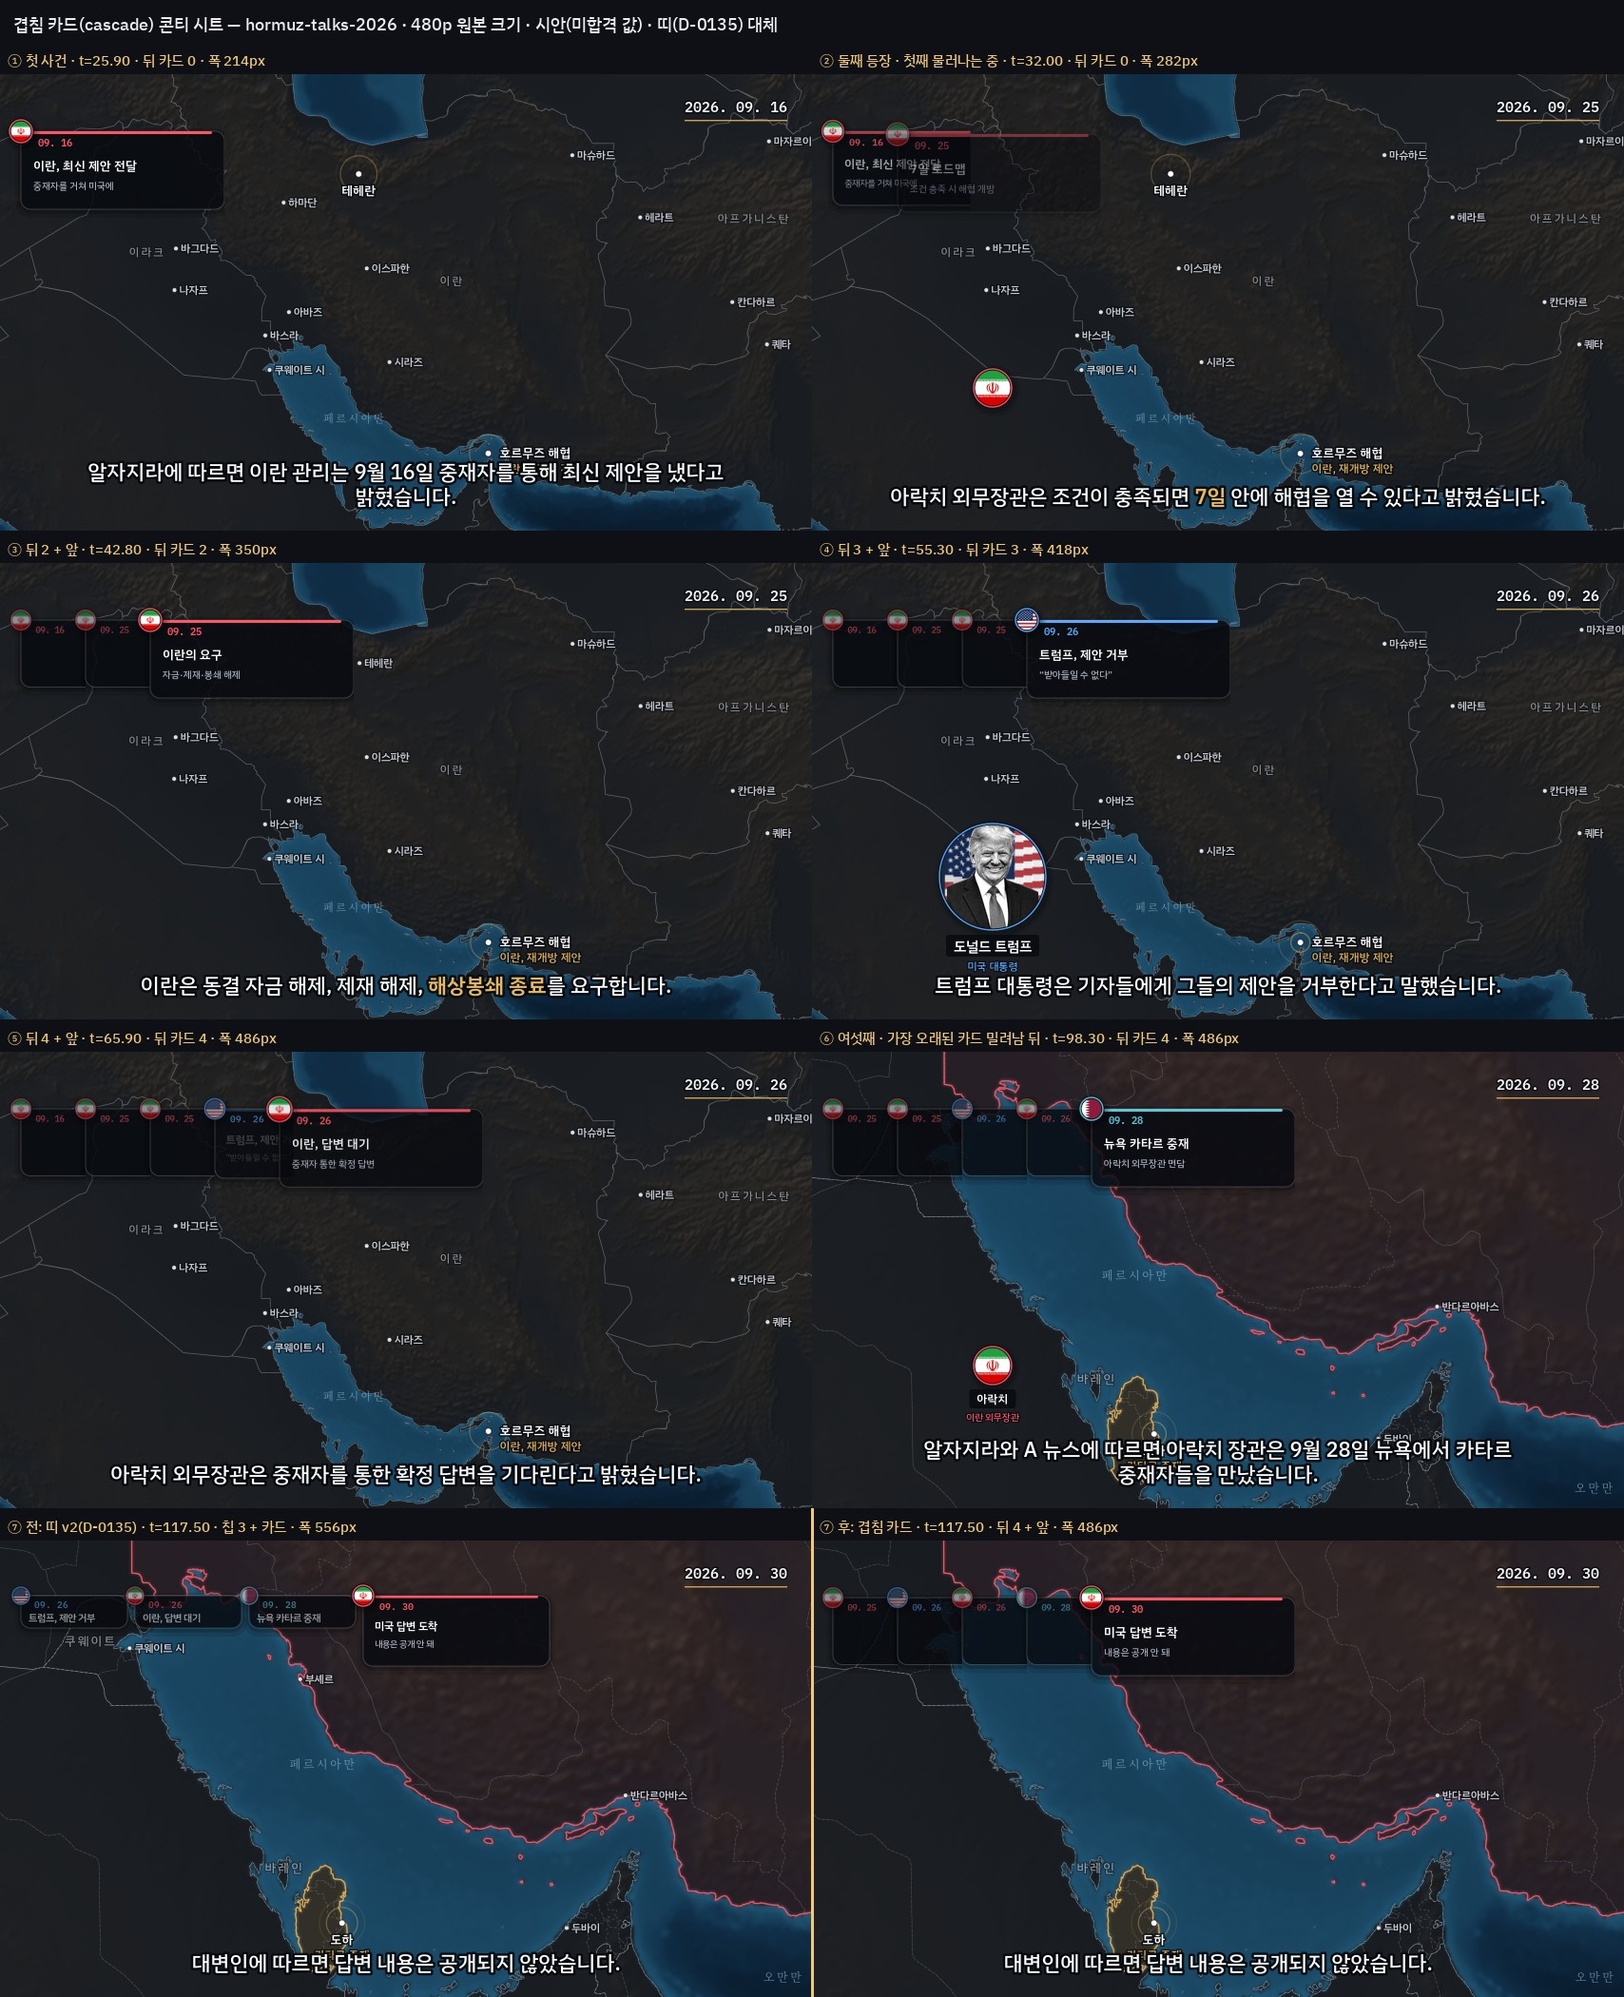
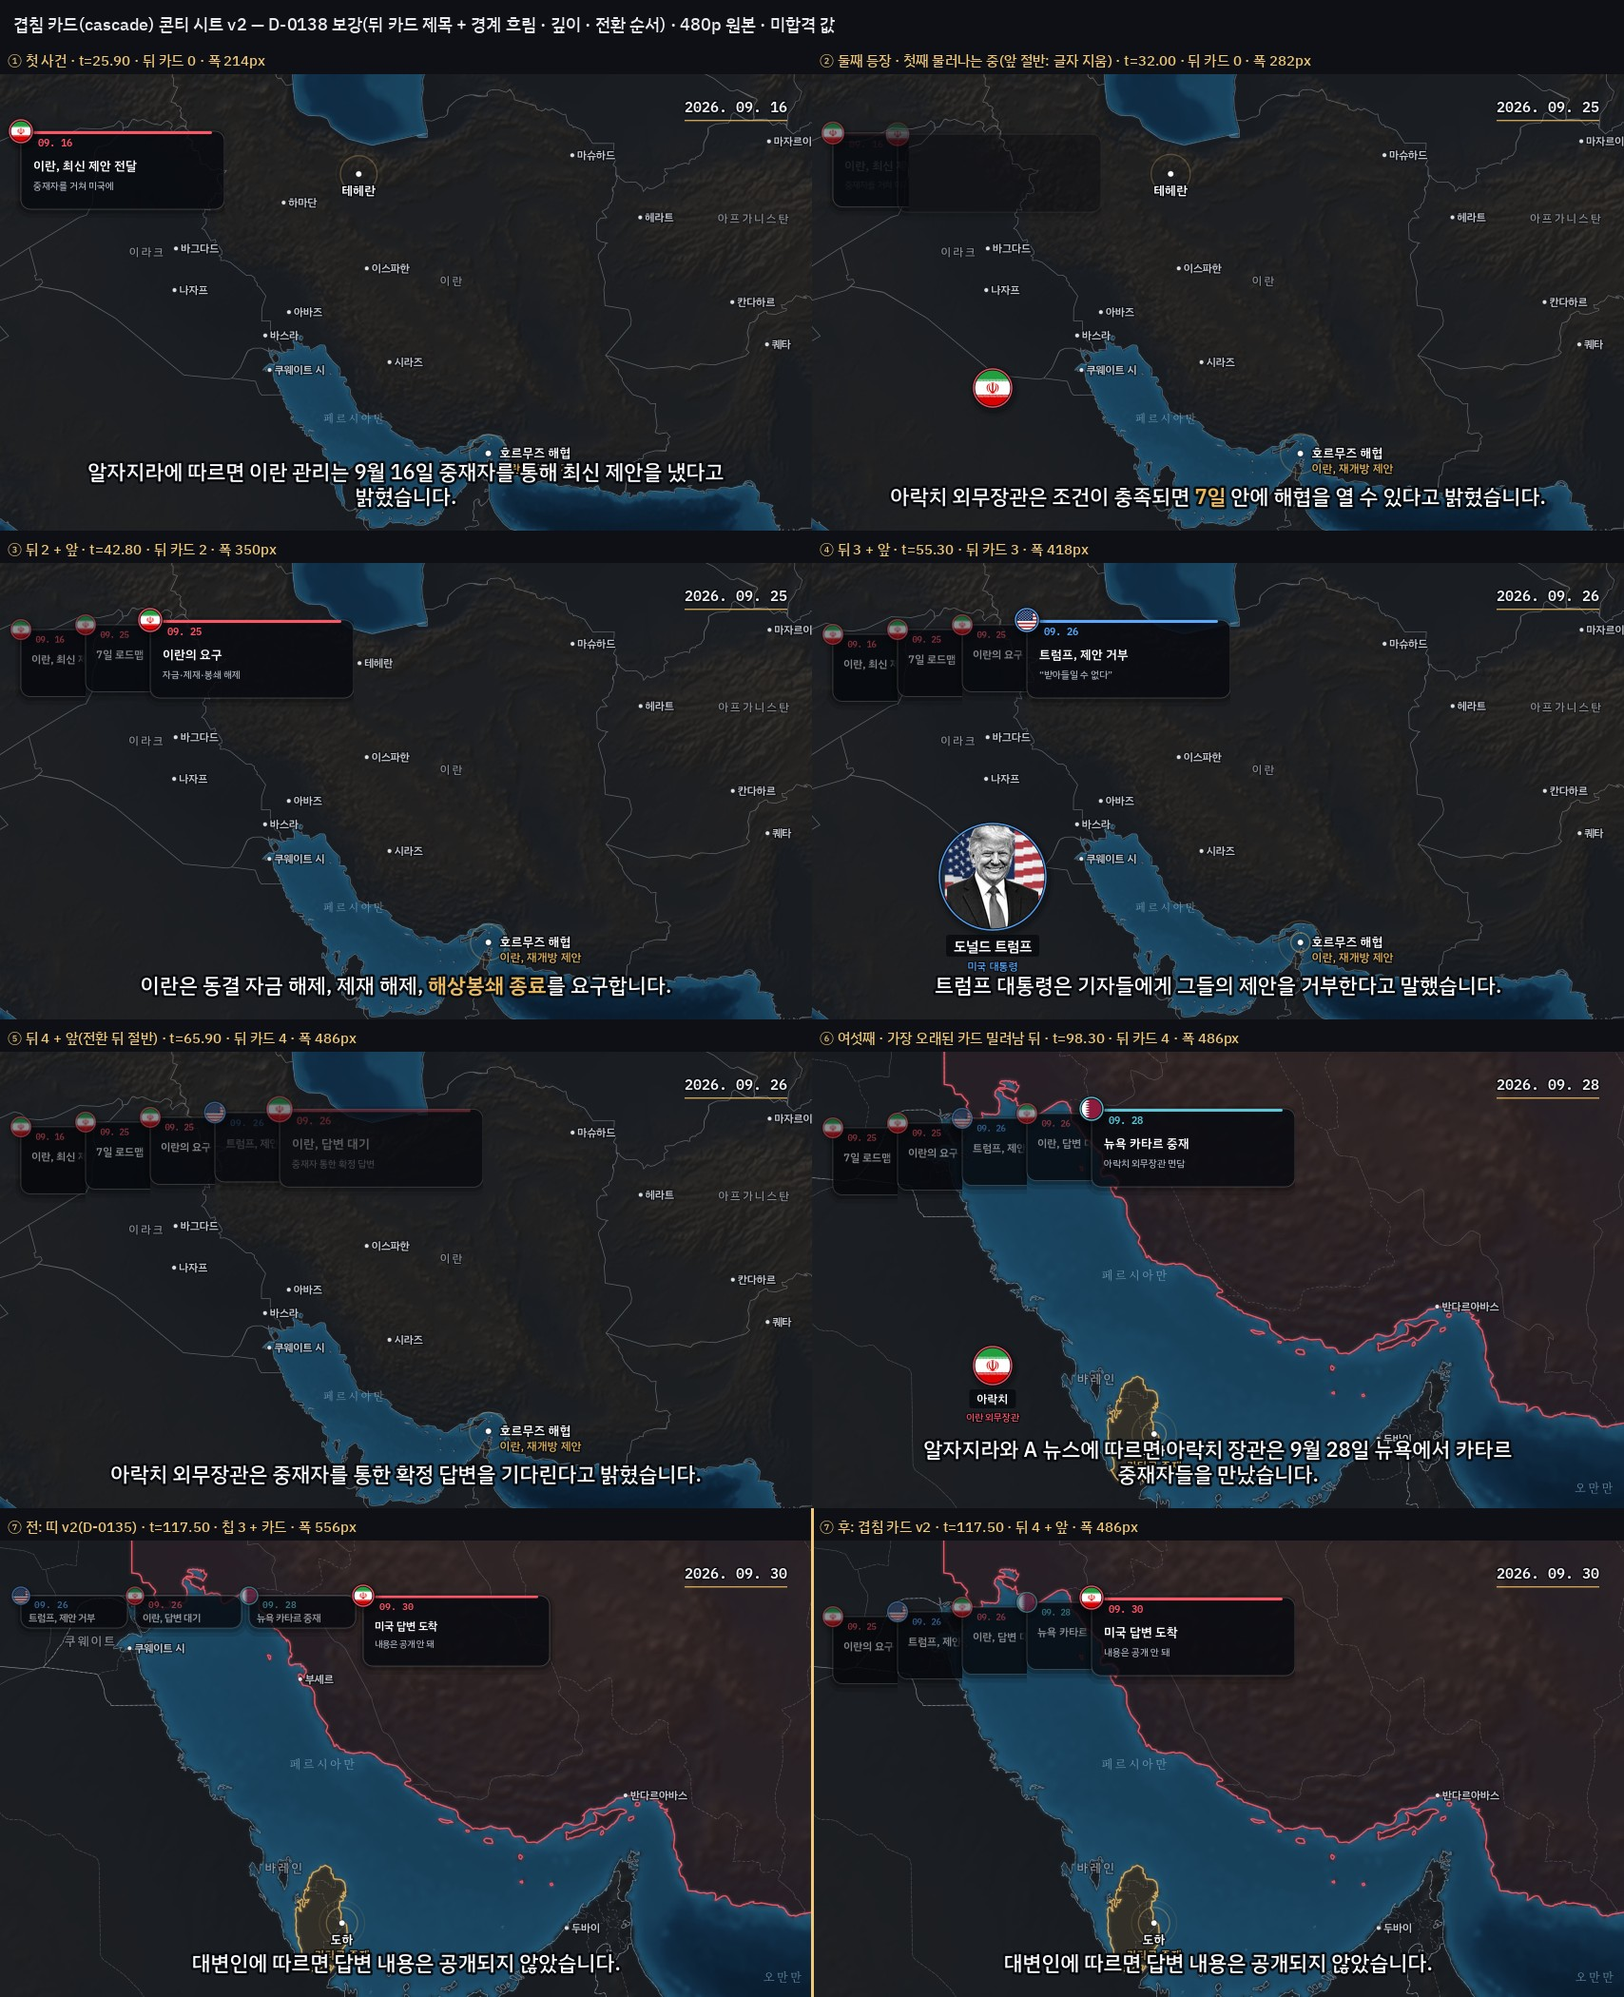
v5.2.0: D-0138 겹침 카드 보강 — 뒤 카드 제목+경계 흐림·깊이(내려앉음·어두움)·전환 글자 순서, 시트·720p 근접 컷, R-0162
Claude-Session: https://claude.ai/code/session_018WsqmoF9BQiVBrCJd6NHj2

diff --git a/engine/cascade.py b/engine/cascade.py
@@ -7,7 +7,9 @@
 - 지금 말하는 사건 = 맨 앞·rules cascade.front 크기·accent 윗선·부제까지.
 - 다음 사건이 오면(items[k+1].at) 앞 카드는 focus_sec 동안 back_scale 로 물러나고(크기·글자 알파 smooth), 새 카드가 step 오른쪽에서
   위에 겹쳐 아래에서 올라온다. 뒤 카드는 다음 카드에 덮인 부분을 그리지 않는다(반투명 바탕끼리 비치지 않게 — 오른쪽 경계를 다음 카드 등장에 맞춰 당긴다).
-  그래서 뒤 카드는 왼쪽 step 폭(국기 원·날짜)만 보인다. 제목·부제·윗선은 물러나며 사라진다(잘린 글자가 비치지 않게).
+  그래서 뒤 카드는 왼쪽 step 폭만 보인다 — 국기 원·날짜·제목 앞부분(덮이는 경계 back_fade_px 는 알파 그라데이션으로 가림, D-0138).
+  부제·윗선은 물러나며 사라진다. 앞에 쌓인 카드 수만큼 back_dy 내려앉고 back_dim 어두워진다(깊이).
+  전환 순서: 물러나는 카드 글자는 focus_sec 앞 절반에 지우고(경계도 앞 절반에 당김), 새 카드 글자는 뒤 절반에 나타난다 — 두 글자가 같은 자리에서 비치는 순간 0.
 - 뒤 카드가 max_back 을 넘으면 가장 오래된 카드가 shift_sec 동안 왼쪽으로 밀려 흐려져 나간다.
 - 상자 = 아일랜드 공통 상자(engine.island.draw_frame). 국기 원 = 카드 좌상단 모서리(badge_at 재사용, 이름표 없음).
 - 패널 덮개 아래에 그린다(engine/render.py). 지명 라벨·뱃지는 보이는 카드 상자를 피한다(R.reserved·engine.reserved.card_zones).
@@ -21,7 +23,7 @@ from dataclasses import dataclass
 import cairo
 
 from engine.context import RenderCtx
-from engine.style import C, CARD, CASCADE, H_OUT
+from engine.style import C, CARD, CASCADE, H_OUT, ISLAND
 from engine.timebase import ease_out, smooth, window
 from engine.typography import rrect, text, tw
 
@@ -37,13 +39,16 @@ class CascadeError(ValueError):
 class Card:
     i: int            # item 번호
     x: float          # 카드 왼쪽(= 국기 원 중심 x)
-    y: float
+    y: float          # 카드 위(등장 슬라이드 + 깊이 내려앉음 포함)
     scale: float      # 1 = 앞, back_scale = 뒤
     back: float       # 0 = 앞, 1 = 완전히 물러남
+    depth: float      # 앞에 쌓인 카드 수(smooth) — 내려앉음 back_dy·어두움 back_dim 의 배수
     a: float          # 등장·밀려남 알파
     clip_x1: float    # 이 x 오른쪽은 다음 카드가 덮는다(그리지 않음)
     appear: float
     leaving: bool
+    title_a: float    # 제목·날짜 글자 알파 배율(전환 순서: 물러나는 카드 = 앞 절반 지움 → 뒤 절반 뒤 카드 글자, 새 카드 = 뒤 절반)
+    detail_a: float   # 부제·윗선 알파 배율(앞 카드에만)
 
     @property
     def w(self) -> float:
@@ -79,6 +84,11 @@ def cascade_alpha(t: float, e: dict) -> float:
     return window(t, e["t0"], e["t1"], CARD.fade_sec, CARD.fade_sec)
 
 
+def _half(p: float, second: bool) -> float:
+    """전환 진행 p(0~1)의 앞 절반(사라짐) 또는 뒤 절반(나타남) 알파."""
+    return smooth(p * 2 - 1) if second else 1 - smooth(p * 2)
+
+
 def layout(t: float, e: dict) -> list[Card]:
     """보이는 카드(뒤 → 앞 순서). 그리기·예약 영역·검사가 같이 쓴다."""
     items = e["items"]
@@ -86,21 +96,29 @@ def layout(t: float, e: dict) -> list[Card]:
     if n == 0:
         return []
     off = sum(smooth((t - items[m]["at"]) / CASCADE.shift_sec) for m in range(CASCADE.max_back + 1, n))
-    xs, ys, alphas = [], [], []
-    for k in range(n):
-        ap = items[k]["at"]
-        xs.append(CASCADE.x0 + (k - off) * CASCADE.step)
-        ys.append(CASCADE.y + (1 - ease_out((t - ap) / CASCADE.focus_sec)) * CARD.slide_px / 2)   # 아래에서 올라온다(폭을 늘리지 않게)
-        gone = smooth(off - k) if off > k else 0.0
-        alphas.append(smooth((t - ap) / CARD.fade_sec) * (1 - gone))
+    prog = [min(1.0, max(0.0, (t - items[k]["at"]) / CASCADE.focus_sec)) for k in range(n)]   # k 번째 사건이 앞에 서는 전환 진행
     out: list[Card] = []
     for k in range(n):
-        back = smooth((t - items[k + 1]["at"]) / CASCADE.focus_sec) if k + 1 < n else 0.0
+        ap = items[k]["at"]
+        x = CASCADE.x0 + (k - off) * CASCADE.step
+        depth = sum(smooth(prog[m]) for m in range(k + 1, n))
+        y = CASCADE.y + (1 - ease_out(prog[k])) * CARD.slide_px / 2 + CASCADE.back_dy * depth   # 아래에서 올라오고, 뒤로 갈수록 내려앉는다
+        gone = smooth(off - k) if off > k else 0.0
+        a = smooth((t - ap) / CARD.fade_sec) * (1 - gone)
+        back = smooth(prog[k + 1]) if k + 1 < n else 0.0
         scale = 1 + (CASCADE.back_scale - 1) * back
-        right = xs[k] + F.w * scale
-        clip = right if k + 1 >= n else right + (xs[k + 1] - right) * alphas[k + 1]   # 다음 카드가 나타나는 만큼 경계를 당긴다
-        if alphas[k] > 0.01:
-            out.append(Card(k, xs[k], ys[k], scale, back, alphas[k], clip, items[k]["at"], off > k))
+        right = x + F.w * scale
+        nx = CASCADE.x0 + (k + 1 - off) * CASCADE.step
+        clip = right if k + 1 >= n else right + (nx - right) * smooth(prog[k + 1] * 2)   # 다음 카드 전환 앞 절반에 경계를 다음 카드 왼쪽 끝까지 당긴다
+        if k + 1 < n and prog[k + 1] < 1:      # 물러나는 중: 앞 절반 지움 → 뒤 절반 뒤 카드 글자
+            title_a = _half(prog[k + 1], False) if prog[k + 1] < 1 / 2 else CASCADE.back_text_alpha * _half(prog[k + 1], True)
+        elif k + 1 < n:
+            title_a = CASCADE.back_text_alpha
+        else:                                   # 맨 앞(새 카드): 뒤 절반에 나타남. 첫 사건은 앞 카드가 없으니 바로
+            title_a = _half(prog[k], True) if k > 0 else 1.0
+        detail_a = (1 - smooth(prog[k + 1] * 2)) if k + 1 < n else title_a
+        if a > 0.01:
+            out.append(Card(k, x, y, scale, back, depth, a, clip, ap, off > k, title_a, detail_a))
     return out
 
 
@@ -133,23 +151,37 @@ def draw_cascade(ctx: cairo.Context, R: RenderCtx, t: float, e: dict) -> None:  
         it = e["items"][c.i]
         a = ea * c.a
         acc = C[it.get("accent") or "gold"]
-        ta = a * (1 + (CASCADE.back_text_alpha - 1) * c.back)   # 글자·국기: 물러나면 흐리게
-        fa = a * (1 - c.back)                                    # 윗선·제목·부제: 앞 카드에만(뒤 카드는 국기·날짜만 — 덮여 잘린 글자가 비치지 않게)
+        ta, fa = a * c.title_a, a * c.detail_a
         ctx.save()
         ctx.rectangle(0, 0, c.clip_x1, H_OUT)
         ctx.clip()
         draw_frame(ctx, (c.x, c.y, c.w, c.h), a)
+        if c.depth > 0.01:                       # 뒤로 갈수록 어둡게(창이 물러난 깊이)
+            rrect(ctx, c.x, c.y, c.w, c.h, ISLAND.radius * c.scale)
+            ctx.set_source_rgba(0, 0, 0, min(1.0, CASCADE.back_dim * c.depth) * a)
+            ctx.fill()
+        ctx.push_group()                         # 글자 — 덮이는 경계 back_fade_px 를 알파 그라데이션으로 가린다(자름 아님)
         ctx.translate(c.x, c.y)
         ctx.scale(c.scale, c.scale)
         if fa > 0.01:
             rrect(ctx, F.pad_x, 0, F.w - F.pad_x * 2, F.accent_w, F.accent_w / 2)
             ctx.set_source_rgba(*acc, fa)
             ctx.fill()
-        text(ctx, it["date"], CASCADE.flag_R + F.date_dx, F.date_dy, F.date_size, "mono", acc, ta, 0, "l")
-        if fa > 0.01:
-            text(ctx, it["title"], F.pad_x, F.title_dy, F.title_size, "sansb", (1, 1, 1), fa, 0, "l")
-        if it.get("line") and fa > 0.01:
-            text(ctx, it["line"], F.pad_x, F.line_dy, F.line_size, "sansm", C["muted"], fa, 0, "l")
+            if it.get("line"):
+                text(ctx, it["line"], F.pad_x, F.line_dy, F.line_size, "sansm", C["muted"], fa, 0, "l")
+        if ta > 0.01:
+            text(ctx, it["date"], CASCADE.flag_R + F.date_dx, F.date_dy, F.date_size, "mono", acc, ta, 0, "l")
+            text(ctx, it["title"], F.pad_x, F.title_dy, F.title_size, "sansb", (1, 1, 1), ta, 0, "l")
+        glyphs = ctx.pop_group()
+        if c.clip_x1 < c.x + c.w:
+            fade = cairo.LinearGradient(c.clip_x1 - CASCADE.back_fade_px, 0, c.clip_x1, 0)
+            fade.add_color_stop_rgba(0, 0, 0, 0, 1)
+            fade.add_color_stop_rgba(1, 0, 0, 0, 0)
+            ctx.set_source(glyphs)
+            ctx.mask(fade)
+        else:
+            ctx.set_source(glyphs)
+            ctx.paint()
         ctx.restore()
         badge_at(ctx, R, c.x, c.y, dict(kind="flag", flag=it["flag"], R=c.flag_r, t0=c.appear, label="",
-                                        accent=it.get("accent") or "gold"), t, ta)
+                                        accent=it.get("accent") or "gold"), t, a * max(c.title_a, CASCADE.back_text_alpha))

diff --git a/tests/test_cascade.py b/tests/test_cascade.py
@@ -65,6 +65,33 @@ class CascadeGeometryTest(unittest.TestCase):
         boxes = cascade_boxes(t, e)
         self.assertAlmostEqual(boxes[0][2] - cards[0].x, CASCADE.step)
 
+    def test_no_text_overlap_during_transition(self) -> None:
+        """D-0138 ③ — 전환 중 물러나는 카드 글자와 새 카드 글자가 같은 자리에서 비치는 순간 0:
+        새 카드 글자가 보이면 물러나는 카드는 새 카드 왼쪽 끝까지만 그린다, 앞 절반에는 새 카드 글자가 없다."""
+        e = _event()
+        for k in range(1, len(e["items"])):
+            t0 = e["items"][k]["at"]
+            t = t0
+            while t <= t0 + CASCADE.focus_sec + STEP:
+                cards = {c.i: c for c in layout(t, e)}
+                new, old = cards.get(k), cards.get(k - 1)
+                if new and old and new.title_a > 0.01:
+                    self.assertLessEqual(old.clip_x1, new.x + 1e-6, (k, t))
+                if t < t0 + CASCADE.focus_sec / 2 - 1e-6 and new:
+                    self.assertLessEqual(new.title_a, 1e-9, (k, t))
+                t += STEP / 5
+
+    def test_depth_monotonic(self) -> None:
+        """D-0138 ② — 뒤로 갈수록(오래된 카드일수록) 깊이·내려앉음이 단조 증가, 맨 앞은 깊이 0."""
+        e = _event(5)
+        cards = layout(e["items"][-1]["at"] + 3.0, e)
+        depths = [c.depth for c in cards]
+        ys = [c.y for c in cards]
+        self.assertTrue(all(a > b for a, b in zip(depths, depths[1:])))
+        self.assertTrue(all(a > b for a, b in zip(ys, ys[1:])))
+        self.assertAlmostEqual(depths[-1], 0.0)
+        self.assertAlmostEqual(ys[0] - ys[-1], CASCADE.back_dy * depths[0])
+
     def test_rules_validator(self) -> None:
         from schemas.rules_models import CascadeRules  # noqa: PLC0415
 

diff --git a/schemas/rules_models.py b/schemas/rules_models.py
@@ -1424,6 +1424,9 @@ class CascadeRules(_Strict):
     front: CascadeFrontRules
     back_scale: float = Field(gt=0, lt=1)
     back_text_alpha: float = Field(gt=0, le=1)
+    back_fade_px: float = Field(ge=0)      # D-0138 — 덮이는 경계 글자 알파 그라데이션 폭
+    back_dy: float = Field(ge=0)           # D-0138 — 층마다 내려앉음
+    back_dim: float = Field(ge=0, lt=1)    # D-0138 — 층마다 어두워짐
     max_back: int = Field(ge=1)
     focus_sec: float = Field(gt=0)
     shift_sec: float = Field(gt=0)

diff --git a/back_and_forth/261001_143236_R0162_opus_cascade-d0138-reinforce.md b/back_and_forth/261001_143236_R0162_opus_cascade-d0138-reinforce.md
@@ -1,0 +1,36 @@
+---
+id: R-0162
+from: opus
+to: fable
+kind: progress
+responds_to: [D-0138]
+phase: "G14-pre (겹침 카드 콘티)"
+version: v5.2.0
+status: done
+---
+
+# D-0138 보강 3건 반영 — 시트 재생성 · 720p 근접 컷(사용자 지시로 1080p 환산 대신)
+
+렌더(480p·720p 전편) 없음. 프리뷰 컷만.
+
+## 산출물
+- 시트: `projects/hormuz-talks-2026/prev/cascade_sheet.jpg`(덮어쓰기, 480p 원본 셀 7컷, ⑦ 전 띠 v2 / 후 겹침 카드 v2).
+- 근접 컷: **`projects/hormuz-talks-2026/prev/cascade_strip_720.png`** — ⑤ t=65.90, 720p 프리뷰 프레임에서 x 0~520·y 40~160(설계 px) × 1.5 = 780×180.
+  사용자 지시(2026-10-01 "720p 근접 컷")가 D-0138 의 1080p 환산(×2.25)을 대신한다. 완성본 해상도 = 720p(order.yaml decisions.resolution).
+
+## 보강
+| # | 내용 | 규칙 키(미합격 값) |
+|---|---|---|
+| 1 | 뒤 카드도 날짜·제목을 남긴다(back_text_alpha 0.5). 덮이는 경계는 글자를 `push_group` 후 선형 그라데이션 마스크로 가린다 — 상자·국기는 그대로. 부제·윗선은 물러나며 사라짐 | `back_fade_px: 12` |
+| 2 | 깊이: 앞에 쌓인 카드 수(smooth) × `back_dy` 내려앉고, 바탕 위에 검정 × `back_dim` × depth | `back_dy: 5`, `back_dim: 0.06` |
+| 3 | 전환 순서: 물러나는 카드 제목·부제 = focus_sec 앞 절반에 지움(덮임 경계도 앞 절반에 다음 카드 왼쪽 끝까지 당김) → 뒤 절반에 뒤 카드 글자. 새 카드 글자 = 뒤 절반 | — |
+
+## 검사·테스트
+- 프리뷰 auto checks **hard 0**(cascade·라벨·뱃지 포함). 폭 214 → 486(최악 554 ≤ 560) 변화 없음 — 깊이는 세로만.
+- `tests/test_cascade.py` 9 passed(새 2: **전환 중 글자 겹침 0** — 새 카드 글자가 보이면 물러나는 카드 경계 ≤ 새 카드 왼쪽 끝, 앞 절반엔 새 카드 글자 0 / **깊이 단조**). 관련 78 passed.
+- 골든 hormuz_korea 25/25 는 이 컨테이너 자산 없음 — D-0137 §5 대로 승격 조건으로 남김.
+
+## 판단·남은 점(되돌릴 수 있음)
+- 깊이 방향은 "아래로 내려앉음"(D-0138 예시). 오래된 카드일수록 아래로 계단이 진다. 위로 올리는 쪽은 레일·모서리 날짜와 가까워져 택하지 않았다.
+- 뒤 카드 제목은 step 68 안에서 4~5글자 보이고 경계가 흐려진다(예 "이란, 최신 제…" 흐림). 사용자 지적 "잘린 글자" 와 같은 인상인지는 사용자 판정 대상.
+- D-0137 의 문장 지명 hard / 배경 지명 warning 분리는 이번 범위 밖(사용자 지시 "보강 3건·시트·근접 컷·R 까지만") — 지금은 둘 다 hard(cascade-label-under, 0건).
